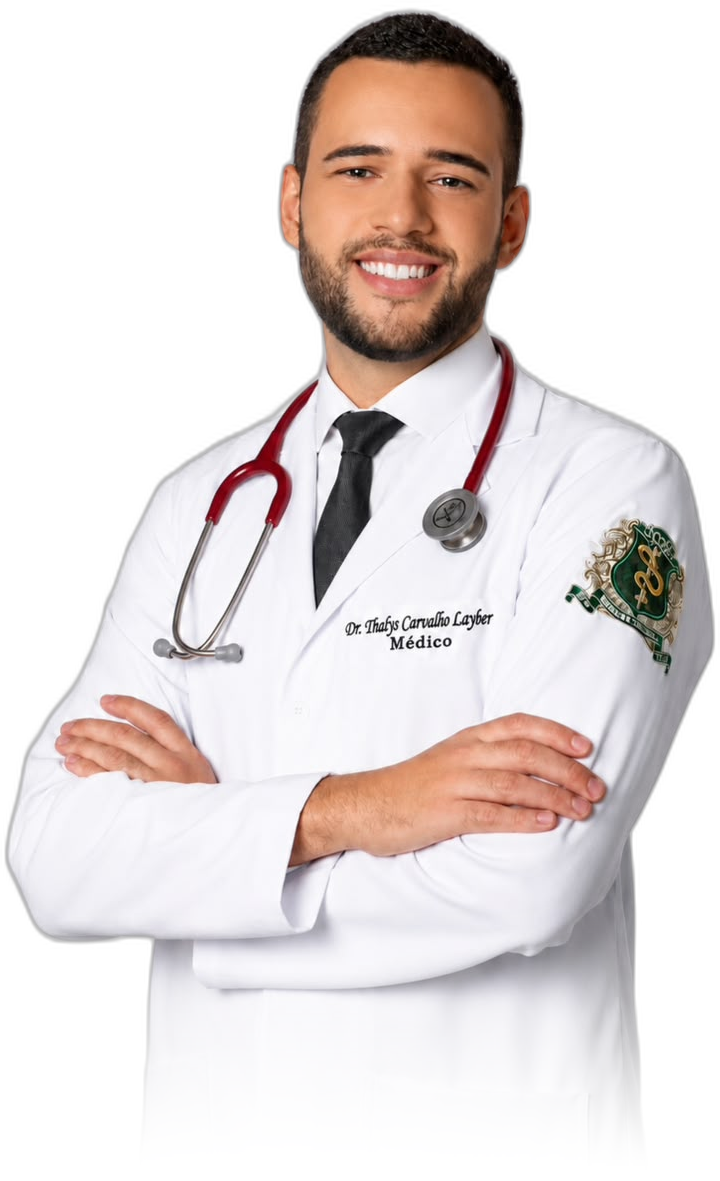
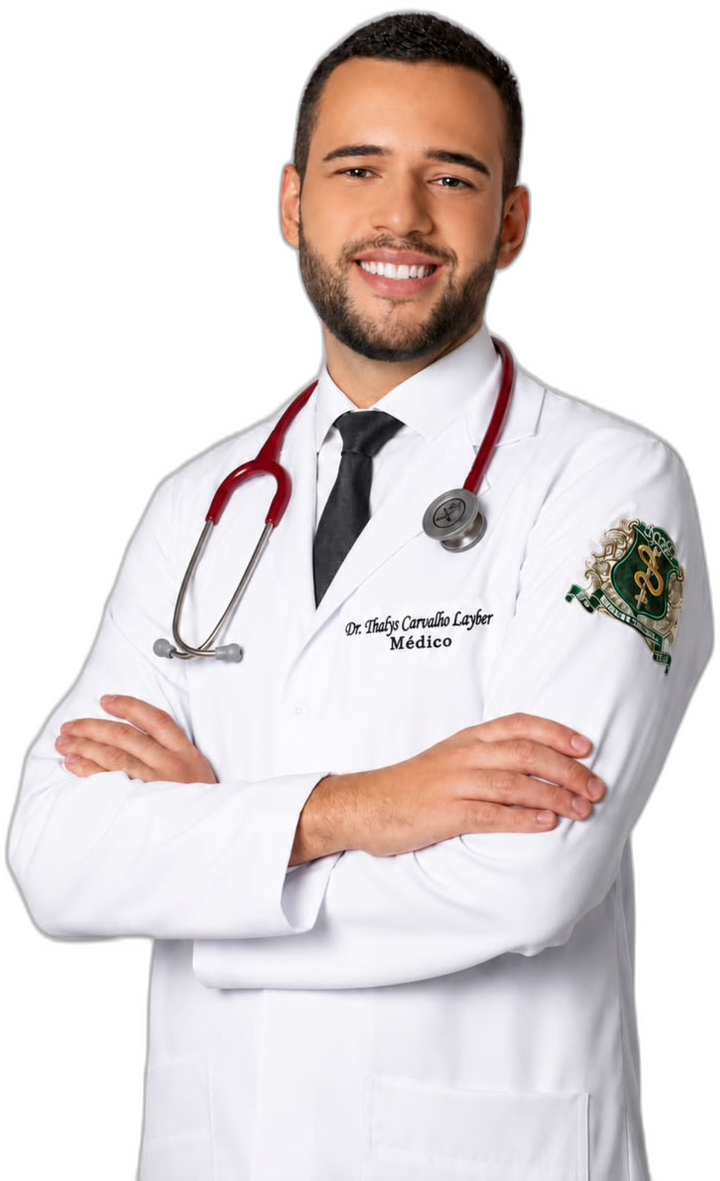
fix(hero): remove completamente efeito de fade da imagem do medico

Changed region(s): [[0.6417, 0.823, 0.9167, 1.0], [0.5194, 0.7925, 0.7028, 0.8535], [0.1833, 0.8535, 0.275, 1.0]]

diff --git a/src/components/Hero.css b/src/components/Hero.css
@@ -371,17 +371,6 @@
   filter: drop-shadow(0 15px 35px rgba(0, 0, 0, 0.5));
 }
 
-.doctor-gradient-fade {
-  position: absolute;
-  bottom: 0;
-  left: 0;
-  width: 100%;
-  height: 90px;
-  background: linear-gradient(to bottom, transparent 0%, #071426 100%);
-  pointer-events: none;
-  z-index: 6;
-}
-
 /* ==========================================================================
    RESPONSIVIDADE (DESKTOP, NOTEBOOK, TABLET, MOBILE)
    ========================================================================== */
@@ -511,10 +500,6 @@
     object-fit: contain !important;
     object-position: bottom center !important;
     margin: 0 auto !important;
-  }
-
-  .doctor-gradient-fade {
-    height: 75px !important;
   }
 
   /* 3. BOTÃO DE AGENDAMENTO (CTA) LOGO ABAIXO DA FOTO */

diff --git a/src/components/Hero.jsx b/src/components/Hero.jsx
@@ -123,14 +123,13 @@ export default function Hero() {
 
           </div>
 
-          {/* Doctor Highlight Cutout */}
+          {/* Doctor Highlight Cutout without fade */}
           <div className="hero-doctor">
             <img 
               src={doctorHeroImg} 
               alt="Dr. Thalys Carvalho Layber - Médico Clínico Geral" 
               className="hero-doctor-img"
             />
-            <div className="doctor-gradient-fade"></div>
           </div>
 
         </div>
